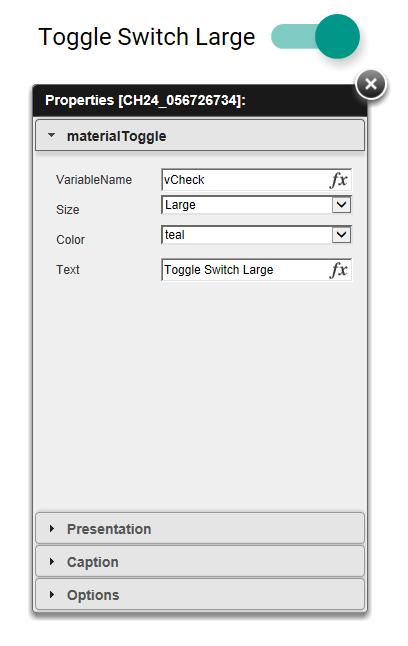
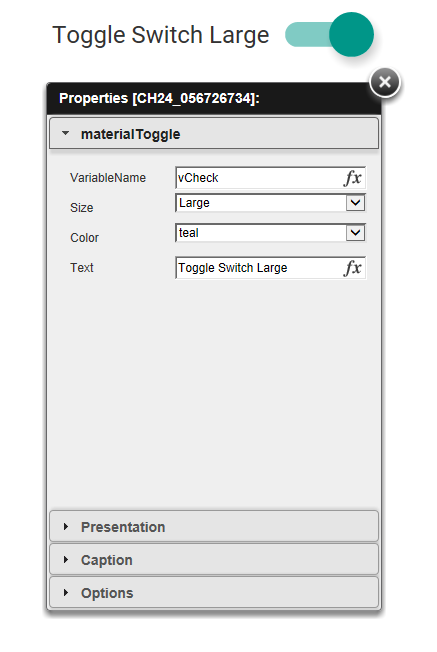
changed font color and updated images

Changed region(s): [[0.0588, 0.0, 0.9706, 0.9598], [0.0882, 0.031, 0.6176, 0.0929]]

diff --git a/Extensions/Objects/materialToggle/materialToggle.css b/Extensions/Objects/materialToggle/materialToggle.css
@@ -2,6 +2,7 @@
 h2, h3, h4 {
 	font-family: 'Roboto', sans-serif;
 	font-weight:500;
+	color:#333333;
 }
 
 .onoffswitch.small {
@@ -161,14 +162,14 @@ h2, h3, h4 {
 }
 /*blue*/
 .onoffswitch-checkbox.blue:checked  + .onoffswitch-label.blue {
-    background-color: #90CAF9;
+    background-color: #64B5F6;
 }
 .onoffswitch-checkbox.blue:checked + .onoffswitch-label.blue, .onoffswitch-checkbox.blue:checked + .onoffswitch-label.blue:before {
-   border-color: #90CAF9;
+   border-color: #64B5F6;
 }
 .onoffswitch-checkbox.blue:checked + .onoffswitch-label.blue:before{
     right: 0px; 
-    background-color: #2196F3; 
+    background-color: #1565C0; 
     box-shadow: 3px 6px 18px 0px rgba(0, 0, 0, 0.2);
 }
 /*lightBlue*/
